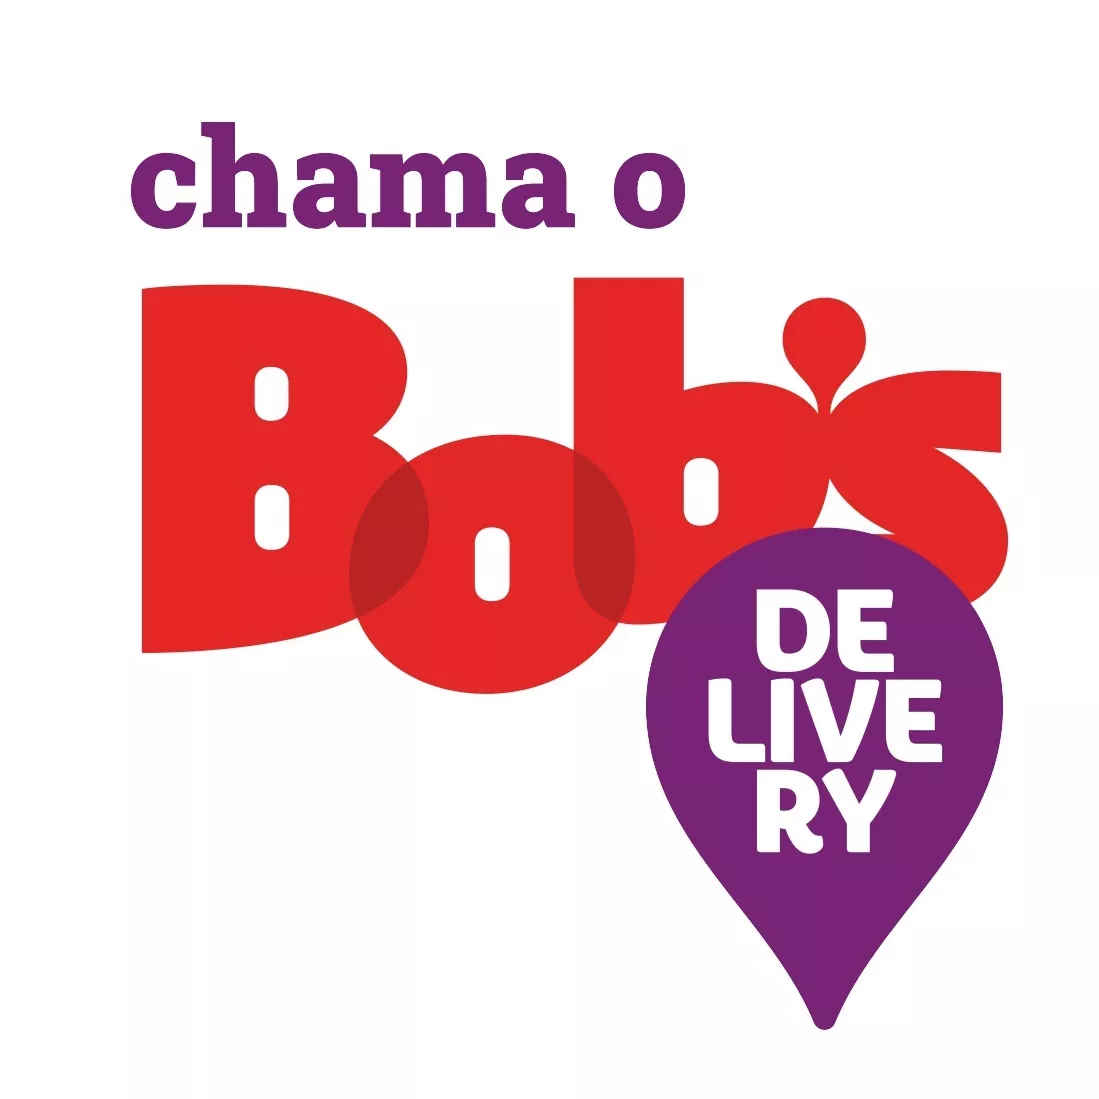
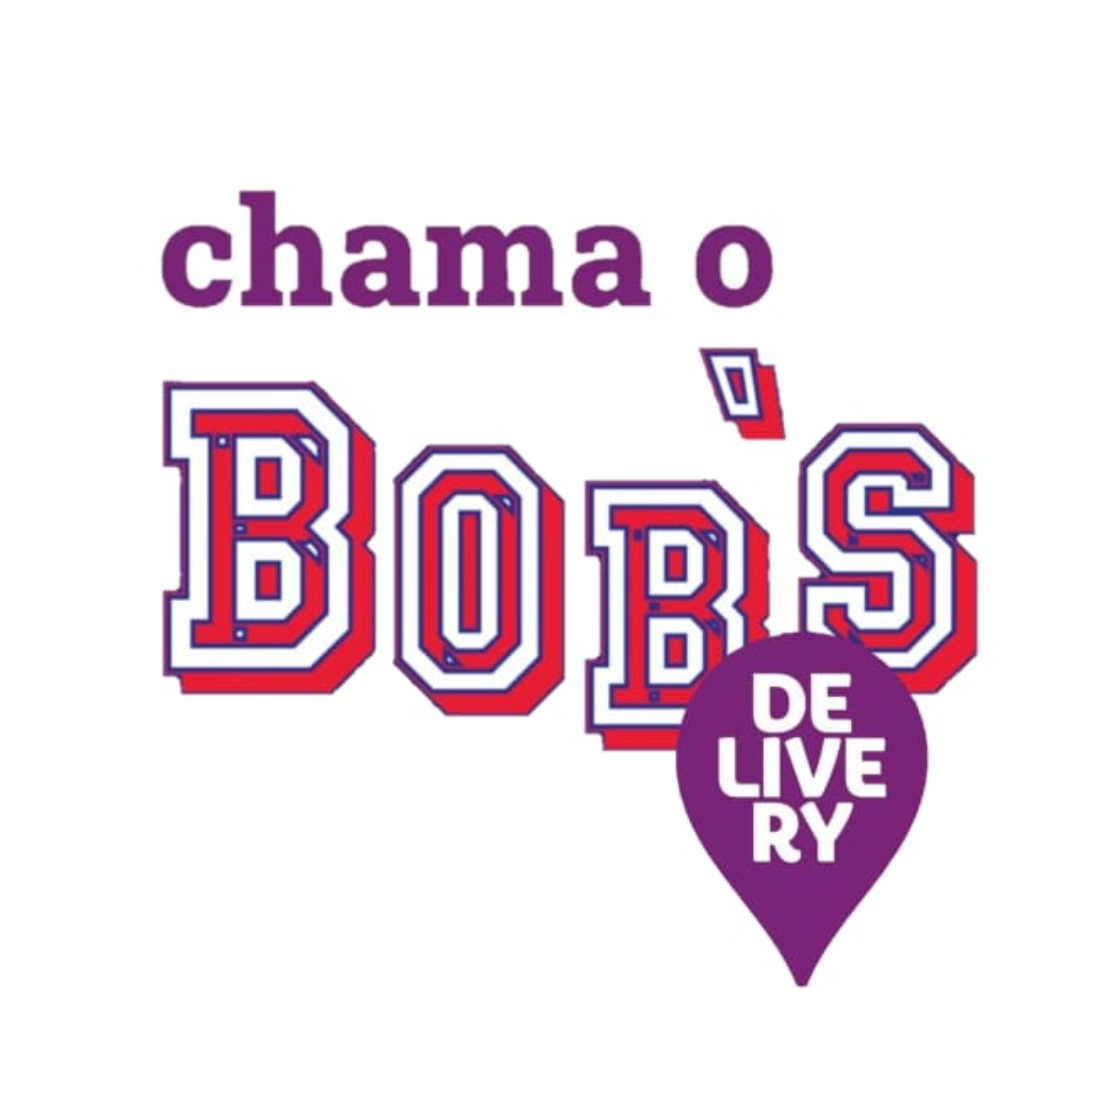
latest update from april. 100% working

diff --git a/interface/css/posts-capricho.css b/interface/css/posts-capricho.css
@@ -2,8 +2,8 @@
 /* CSS Document */
 
 .bgheader {background-color: rgba(160,0,0,1.00);width: 100%;height: 100px;padding: inherit;position: fixed;}
-.bgads {background: url("../img/posts-verao-milkshake.png");width: 100%;height: 500px;padding: inherit;text-align: center;background-position: center;background-repeat: no-repeat;}
-.bgads-sec {background-image: url("../img/posts-verao-milkshake-tw.png");width: 100%;height: 50px;padding: inherit;background-position: center;background-repeat: no-repeat;}
+.bgads {background: url("../img/posts-capricho.png");width: 100%;height: 500px;padding: inherit;text-align: center;background-position: center;background-repeat: no-repeat;}
+.bgads-sec {background-image: url("../img/posts-capricho-tw.png");width: 100%;height: 50px;padding: inherit;background-position: center;background-repeat: no-repeat;}
 .bgsec {background-image: linear-gradient(to bottom, rgba(255,255,255,0) 0%, #ddd 100%),url("../img/bgsec.png");width: 100%;height: 450px;padding: inherit;}
 .bgadssec {background-color: rgba(221,221,221,1.00);width: 100%;height: 1600px;padding: inherit;}
 .bgadstrh {background-color: rgba(216,216,216,1.00);width: 100%;height: 500px;padding: inherit;}
